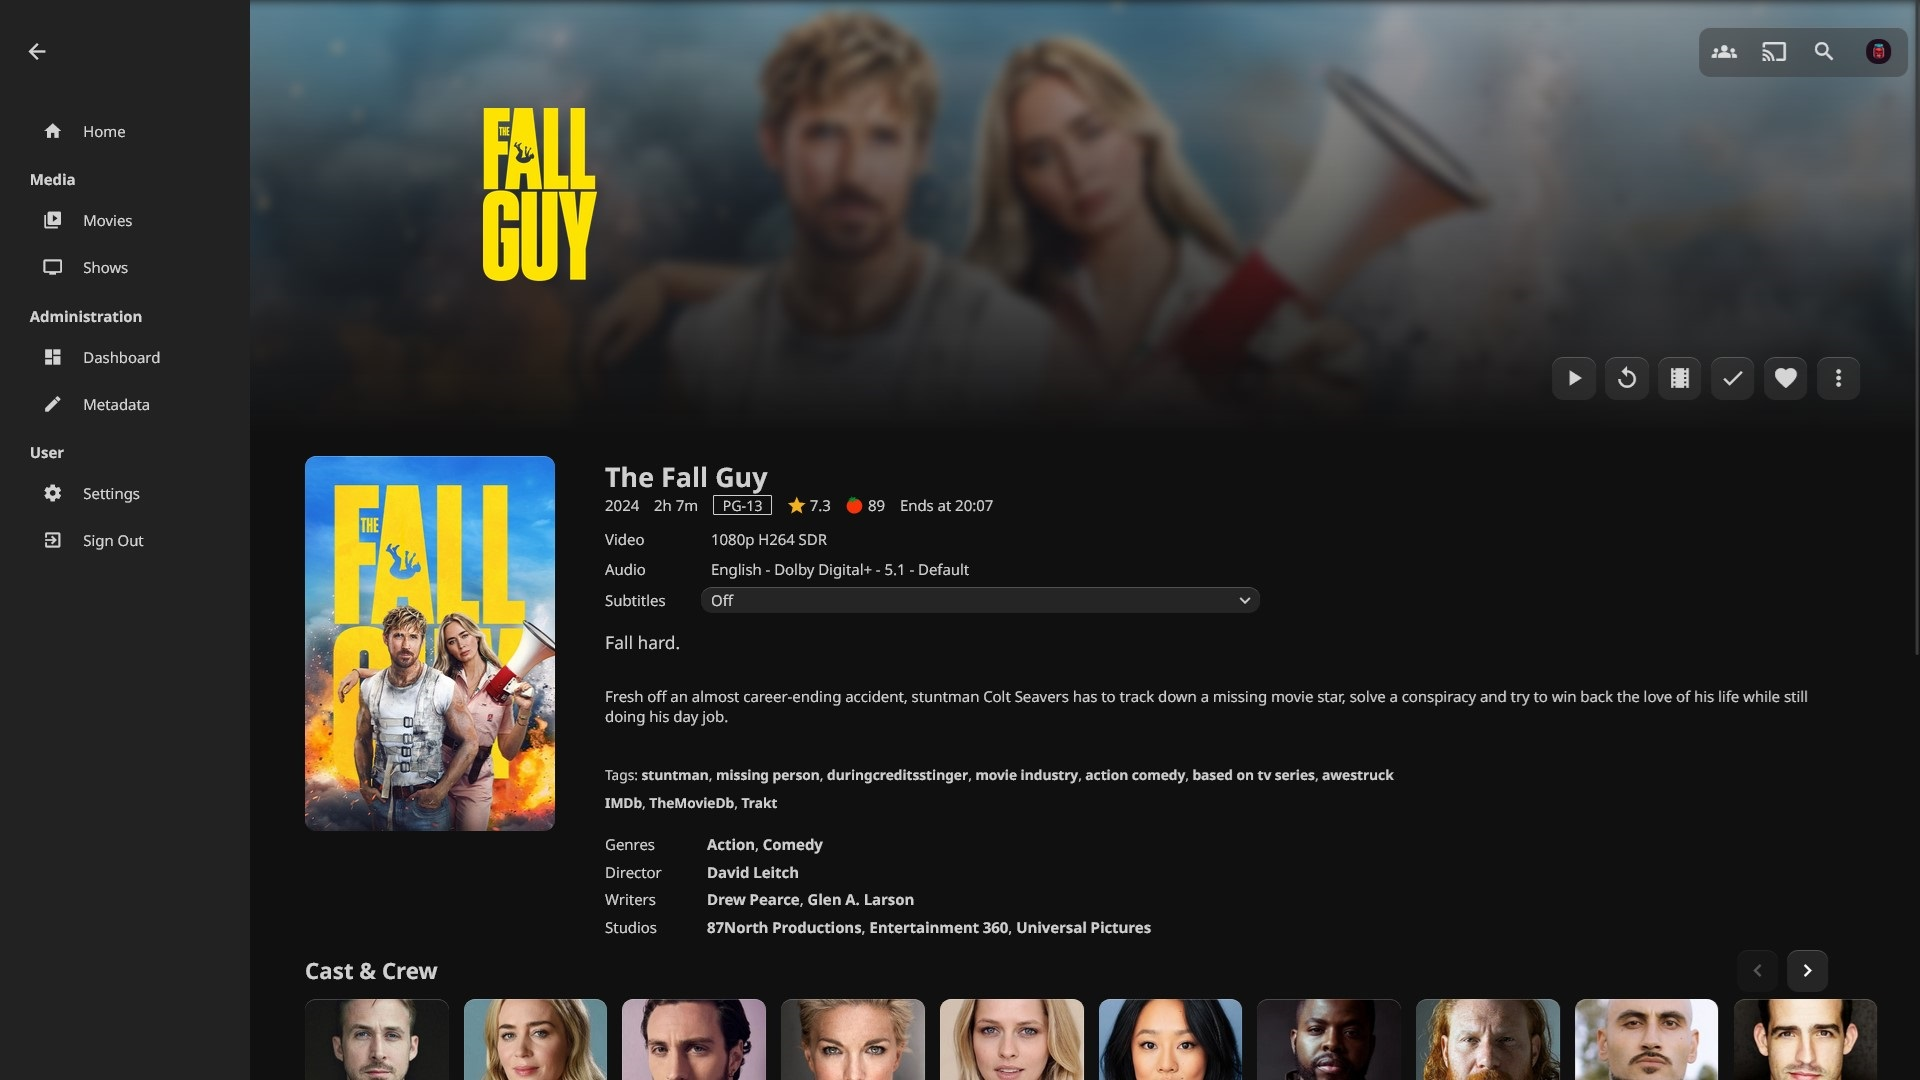
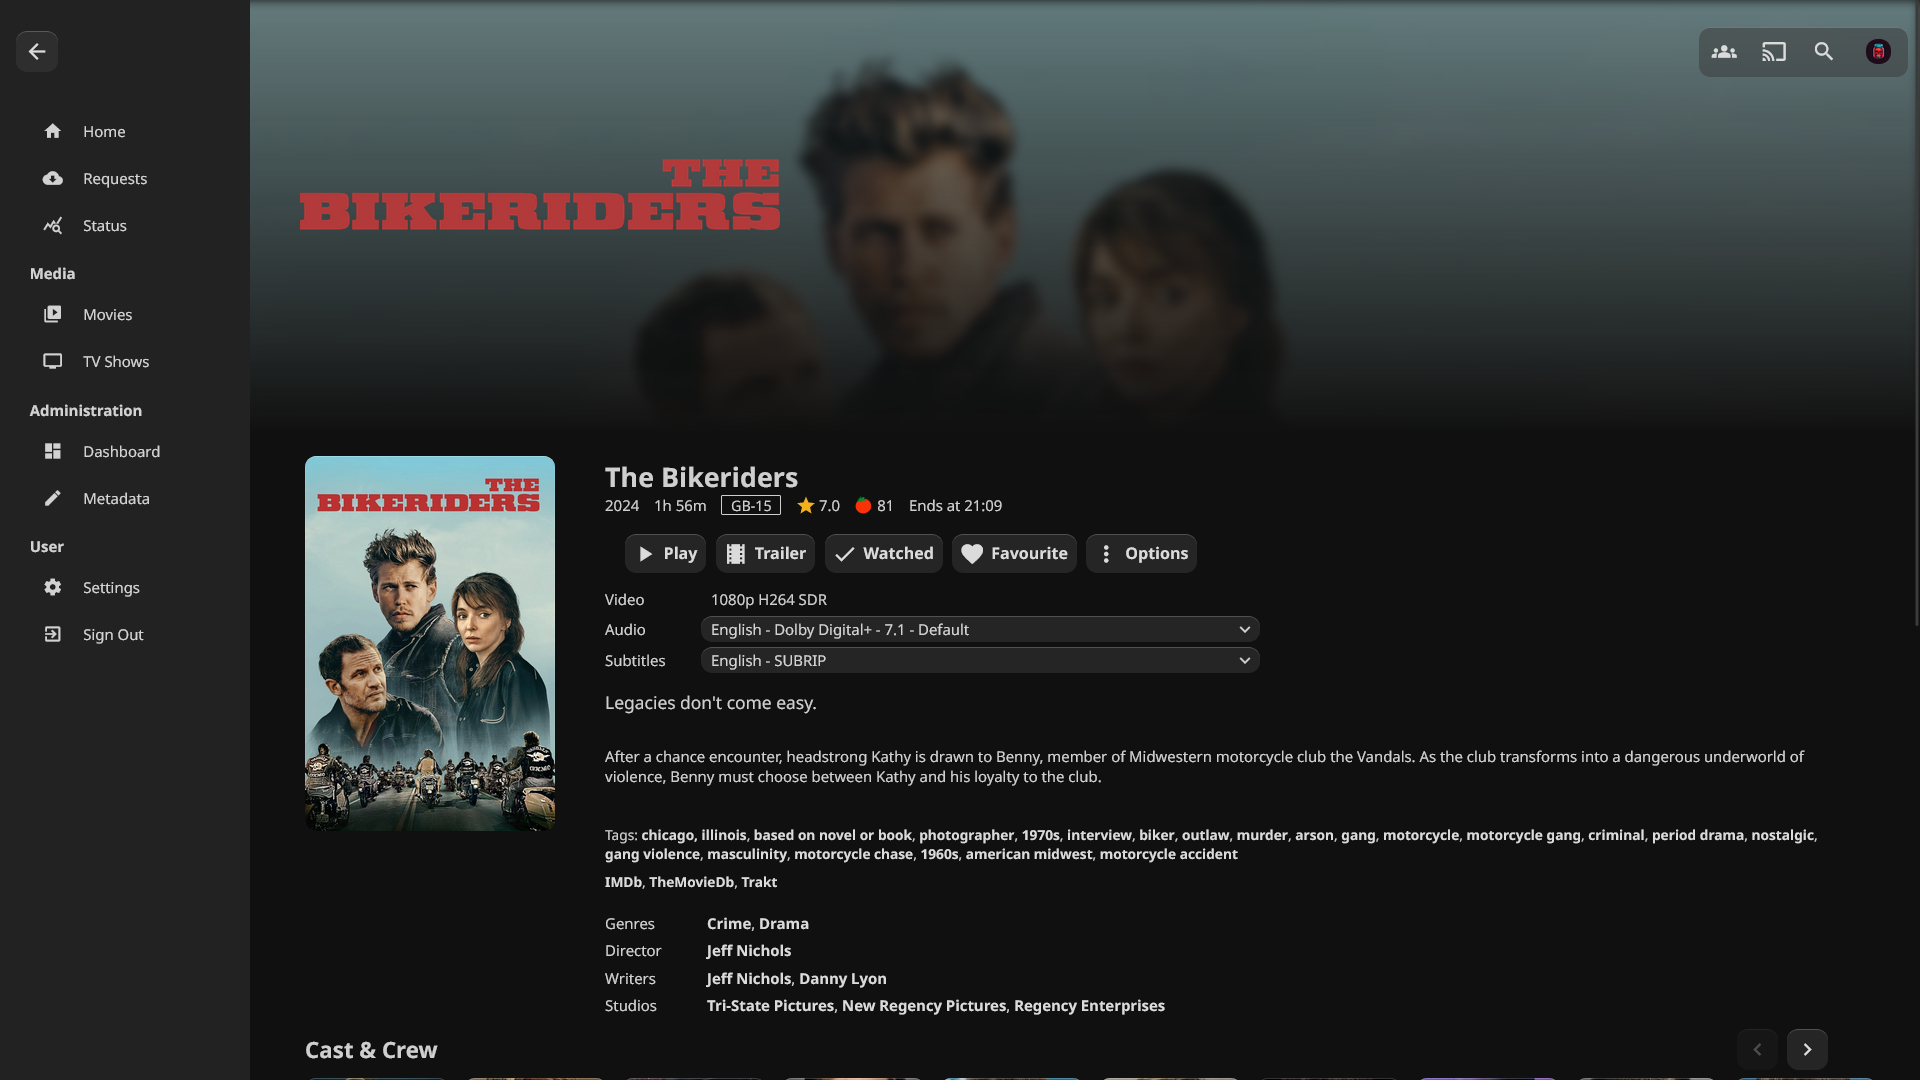
refactor: :art: Repositioned the media controls

diff --git a/theme/base.css b/theme/base.css
@@ -200,6 +200,12 @@ html {
     }
 }
 
+@media (max-width: 50em) {
+    .homeLibraryButton {
+    width: 100% !important;
+    }
+}
+
 /* Main Drawer */
 
 .layout-desktop,
@@ -377,9 +383,64 @@ progress {
 }
 
 .layout-desktop .detailPagePrimaryContent {
-    padding-top: 75px;
+    padding-top: 135px;
     padding-left: 300px;
     min-height: 325px;
+}
+
+.layout-desktop .mainDetailButtons {
+    padding-top: 350px;
+    padding-left: 300px;
+    left: 70px;
+    position: absolute;
+}
+
+.layout-mobile .mainDetailButtons {
+    display: flex;
+    flex-flow: wrap;
+    gap: 10px;
+}
+
+.mainDetailButtons .detailButton {
+    display: inline-flex;
+    align-items: center;
+    padding-left: 50px;
+    position: relative;
+}
+
+.btnPlay .detailButton-content:before {
+    content: "Play";
+}
+
+.btnPlayTrailer .detailButton-content:before {
+    content: "Trailer";
+}
+
+.btnPlaystate .detailButton-content:before {
+    content: "Watched";
+}
+
+.btnUserRating .detailButton-content:before {
+    content: "Favourite";
+}
+
+.btnMoreCommands .detailButton-content:before {
+    content: "Options";
+}
+
+.detailButton-content:before {
+    position: relative;
+    margin-left: 30px;
+}
+
+.detailButton-icon:before {
+    position: absolute;
+    top: 7px;
+    left: 7px;
+}
+
+.mainDetailButtons .material-icons {
+    height: unset;
 }
 
 .layout-desktop .detailPagePrimaryContainer,
